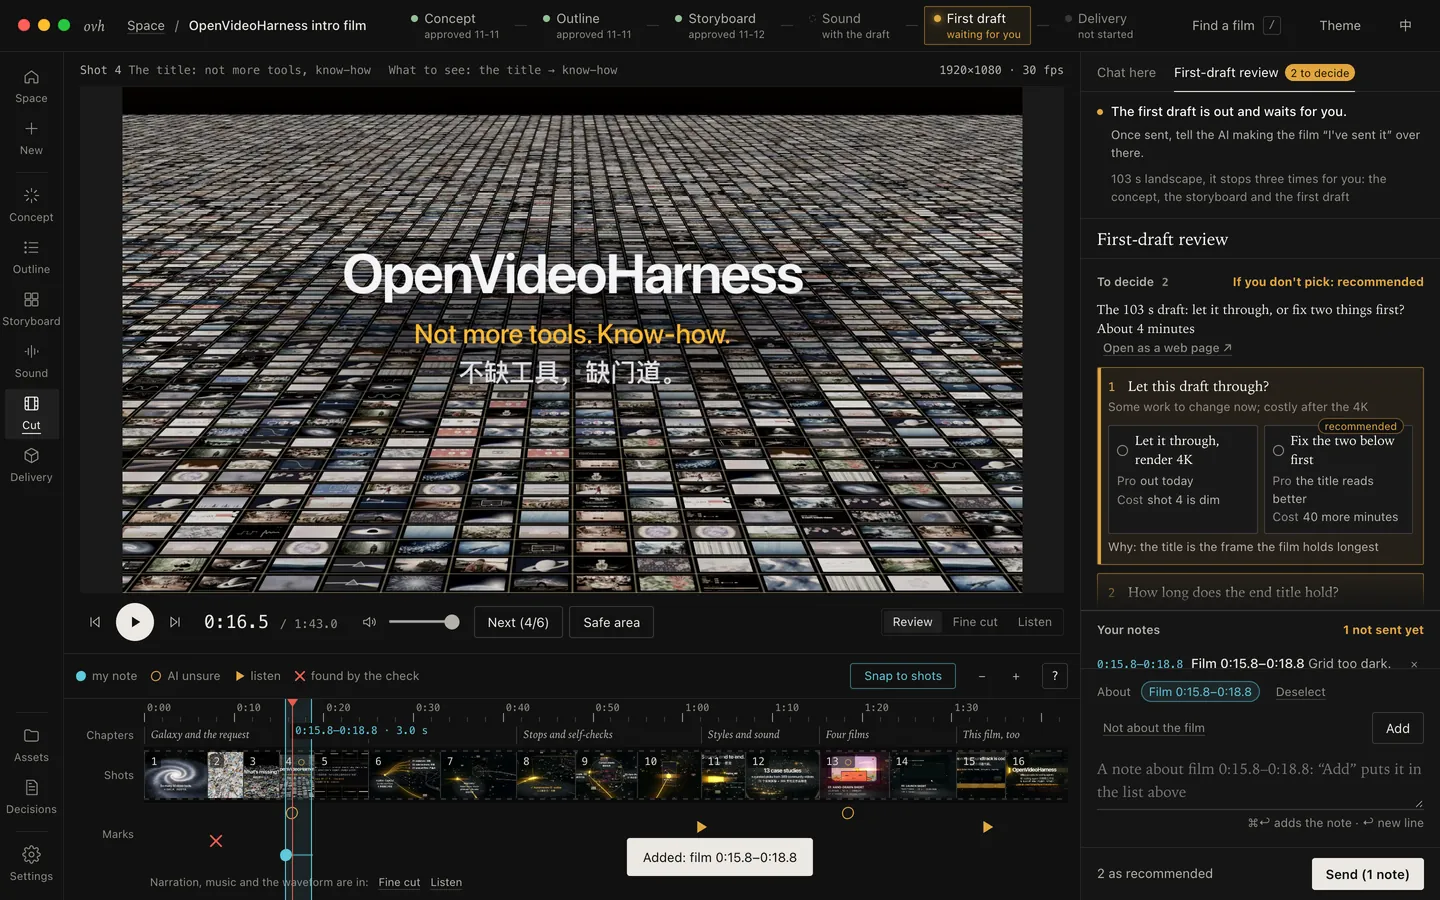
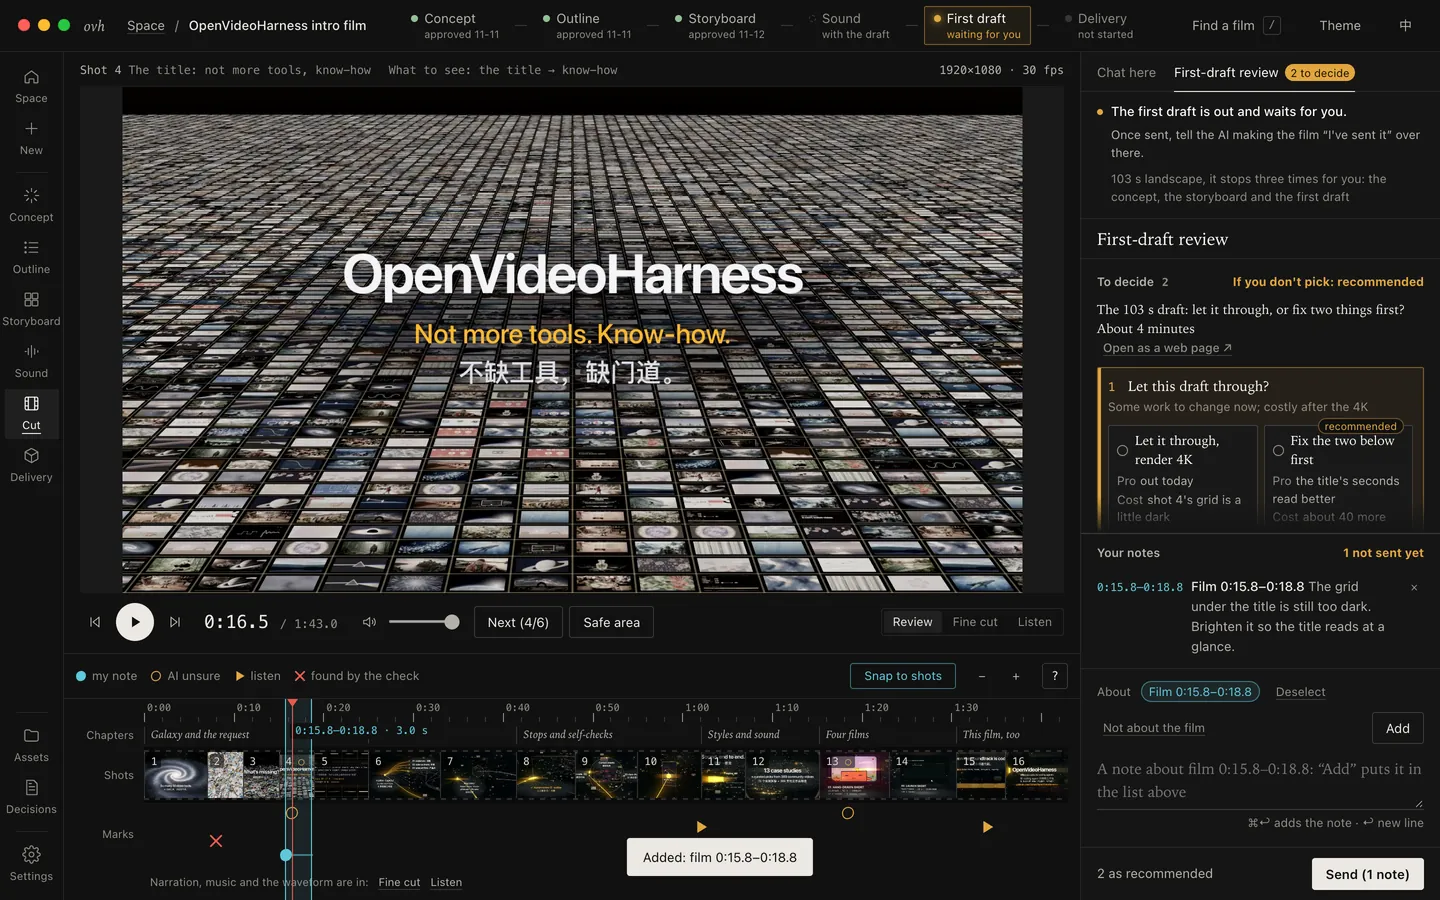
Studio 右栏：刚加的意见整条看得见，长的镜头名不再把右栏撑宽
- "你的意见"至少放得下状态那一行和最后三条（fitMine 按实际高度给最小高度），上面要定的事让到 4.5rem、自己滚动。
- 右栏里的标签写不下以省略号结尾、title 里是全文，网格列和块标题不再被内容撑宽，发送按钮总在右栏里；三套主题都一样。
- test_page.py 加两项检查；主图、初版写意见和三张英文主题图跟着重拍，样例文字换回原来的长句。

Changed region(s): [[0.75, 0.5289, 1.0, 0.7467], [0.8125, 0.5289, 0.8438, 0.56]]

diff --git a/tools/desk/static/studio.css b/tools/desk/static/studio.css
@@ -198,7 +198,7 @@ html.shell-other .topbar{padding-right:calc(14px + 100vw - env(titlebar-area-x, 
 .col-now .now-act .now-second{padding-left:0;color:var(--ink-3);text-decoration:underline;text-decoration-color:var(--rule-2);text-underline-offset:2px}
 .col-now .now-plan{margin:0;padding-left:14px;font-size:var(--fs-label);color:var(--ink-3)}
 .col-body{flex:1;overflow:auto;padding:14px 16px;display:grid;gap:16px;align-content:start}
-.col-body .blk-h{display:flex;align-items:baseline;gap:8px;margin:0 0 8px;font-size:var(--fs-label);color:var(--ink-3);letter-spacing:var(--label-track);text-transform:var(--label-case)}
+.col-body .blk-h{display:flex;flex-wrap:wrap;align-items:baseline;gap:2px 8px;margin:0 0 8px;font-size:var(--fs-label);color:var(--ink-3);letter-spacing:var(--label-track);text-transform:var(--label-case)}
 .col-body .blk-h b{font-weight:600;color:var(--ink-2)}
 .col-body .blk-h .tag{margin-left:auto}
 .col-body .round-h{font:500 var(--fs-small)/1.5 var(--prose);color:var(--ink)}
@@ -214,8 +214,8 @@ html.shell-other .topbar{padding-right:calc(14px + 100vw - env(titlebar-area-x, 
 .col-body .quiet-line{color:var(--ink-2)}
 /* the notes and their state, pinned to the column's foot right above the note box: what was just kept is seen without scrolling */
 .col-body.split{display:flex;flex-direction:column;overflow:hidden;padding:0;gap:0}   /* a film's column: two parts, each scrolling on its own */
-.col-body.split>.col-scroll{flex:1 1 auto;min-height:6rem;overflow:auto;padding:14px 16px 10px;display:grid;gap:10px;align-content:start}
-.col-body.split>.c-mine{flex:0 1 auto;min-height:0;max-height:50%;overflow:auto;padding:10px 16px 12px;background:var(--panel);border-top:1px solid var(--rule-2)}   /* at most half the column; below 1280×720 the part above keeps 6rem */
+.col-body.split>.col-scroll{flex:1 1 auto;min-height:4.5rem;overflow:auto;padding:14px 16px 10px;display:grid;grid-template-columns:minmax(0,1fr);gap:10px;align-content:start}
+.col-body.split>.c-mine{flex:0 1 auto;min-height:0;max-height:50%;overflow:auto;padding:10px 16px 12px;background:var(--panel);border-top:1px solid var(--rule-2)}   /* at most half the column, unless its state line and last three notes need more (fitMine sets a min-height then); the part above keeps 4.5rem and scrolls */
 .col-body .c-mine .blk-h{position:sticky;top:-10px;margin:-10px 0 4px;padding:10px 0 4px;background:linear-gradient(var(--panel),var(--panel)),var(--bg);z-index:1}   /* opaque where the panel is see-through (棱镜): a scrolled note never shows through it */   /* the state line stays while the notes scroll */
 .col-body .c-mine .blk-h .tag{margin-left:auto;color:var(--wait)}
 .col-body .ho-batch{margin-top:8px}
@@ -243,7 +243,13 @@ html.shell-other .topbar{padding-right:calc(14px + 100vw - env(titlebar-area-x, 
 .col-round b{color:var(--ink);font-weight:500}
 .col-round .btn-primary{margin-left:auto}
 .col-round .btn-primary[disabled]{opacity:.4;cursor:default}
-.composer{padding:12px 16px 14px;border-top:1px solid var(--rule);display:grid;gap:8px}
+.composer{padding:12px 16px 14px;border-top:1px solid var(--rule);display:grid;grid-template-columns:minmax(0,1fr);gap:8px}
+/* nothing in the right column is wider than the column, in any theme: a chip ends in "…" with its whole text in its title (prism and bridge set chips
+   in the monospace, about a quarter wider than darkfield's sans, so a long label crossed the edge there first), a button's words wrap */
+.col .chip{max-width:100%;min-width:0}
+.col .crow>.chip,.col .ag-me>.chip,.col .note-list .chip{display:inline-block;overflow:hidden;text-overflow:ellipsis;vertical-align:middle}
+.col .crow>*,.col .send>*{min-width:0}
+.col .send .btn,.col .crow .btn{white-space:normal;overflow-wrap:anywhere;text-align:center}
 .composer .crow{display:flex;align-items:center;gap:8px;flex-wrap:wrap;font-size:var(--fs-label);color:var(--ink-3)}
 .composer .crow .xs{border:0;background:none;color:var(--ink-3);cursor:pointer;font-size:var(--fs-label);text-decoration:underline;text-decoration-color:var(--rule-2);text-underline-offset:3px}
 .composer .modes{display:inline-flex;border:1px solid var(--rule);border-radius:var(--r-ctl);overflow:hidden}

diff --git a/tools/desk/static/studio.js b/tools/desk/static/studio.js
@@ -691,7 +691,21 @@ function renderMine() {
     + (none ? "" : `<ul class="note-list mine">${gen}${items.map(row).join("")}</ul>`) + leftHtml + unreadHtml + takenHtml;
   requestAnimationFrame(keepNewest);
 }
+function fitMine() {   // the block holds its state line and the last three notes whole (all of them when fewer); the decisions above give way down to their own minimum and scroll
+  const box = $("#cMine"), body = $("#colBody"), above = $("#colScroll");
+  if (!box || !body || !above || !body.classList.contains("split")) return;
+  box.style.minHeight = "";
+  const lis = $$("ul.mine > li", box).slice(-3), head = $(".blk-h", box);
+  if (!lis.length || !box.offsetParent) return;
+  const cs = getComputedStyle(box), first = lis[0].getBoundingClientRect(), last = lis[lis.length - 1].getBoundingClientRect();
+  const hs = head ? getComputedStyle(head) : null, stuck = hs ? head.getBoundingClientRect().height + Math.min(0, parseFloat(hs.top) || 0) + (parseFloat(hs.marginBottom) || 0) : 0;
+  const edge = parseFloat(cs.borderTopWidth) + parseFloat(cs.borderBottomWidth);
+  const need = Math.ceil(Math.min(stuck + 4 + (last.bottom - first.top) + parseFloat(cs.paddingBottom), box.scrollHeight) + edge);   // the state line as it sticks, the three, the foot
+  const room = body.clientHeight - (parseFloat(getComputedStyle(above).minHeight) || 0);
+  if (need > box.clientHeight + 1) box.style.minHeight = Math.max(0, Math.min(need, room)) + "px";
+}
 function keepNewest() {   // the note kept last is the one in view, however many there are (also once the column's tab shows the block)
+  fitMine();
   const box = $("#cMine"), keys = FB ? Object.keys(FB.items) : [];
   const newest = box && keys.length ? $(`li[data-goto="${CSS.escape(keys[keys.length - 1])}"]`, box) : null;
   if (newest && box.scrollHeight > box.clientHeight) box.scrollTop = Math.max(0, newest.offsetTop - box.clientHeight + newest.offsetHeight + 8);
@@ -815,7 +829,7 @@ function scopeLabel() { return SCOPE ? SCOPE.label : MOD === "cut" ? t("whole_fi
 function updateComposer() {
   if (!$("#composer").dataset.ready) return;
   const x = scopeLabel();
-  $("#scope").textContent = x; $("#scope").className = "chip" + (SCOPE ? "" : " quiet");
+  $("#scope").textContent = x; $("#scope").title = x; $("#scope").className = "chip" + (SCOPE ? "" : " quiet");
   $("#toWhole").hidden = !SCOPE;
   $("#toNone").hidden = !!(SCOPE && SCOPE.none);
   $("#say").placeholder = SCOPE && SCOPE.none ? t("ph_not_film") : t("c_ph", { x: /[\x21-\x7e]$/.test(x) && LANG === "zh" ? x + " " : inLine(x) });

diff --git a/tools/desk/static/agent.js b/tools/desk/static/agent.js
@@ -569,7 +569,7 @@ const AGENT = (() => {
   }
   function itemHtml(it) {
     const a = esc(label());
-    if (it.kind === "user") return `<div class="ag-me">${it.scope && it.scope.label ? `<span class="chip">${esc(at("t_on", { x: inLine(cut(it.scope.label, 40)) }))}</span>` : ""}<p>${esc(it.text)}</p></div>`;
+    if (it.kind === "user") return `<div class="ag-me">${it.scope && it.scope.label ? `<span class="chip" title="${esc(at("t_on", { x: inLine(it.scope.label) }))}">${esc(at("t_on", { x: inLine(cut(it.scope.label, 40)) }))}</span>` : ""}<p>${esc(it.text)}</p></div>`;
     if (it.kind === "msg" && AUTH_MSG.test(it.text)) return `${HINTS.has(it.key) ? signInHint("warn") : ""}<details class="ag-thought"><summary>${esc(at("raw_said"))}</summary><div class="ag-md">${md(it.text)}</div></details>`;
     if (it.kind === "msg") return `<div class="ag-say"><div class="ag-who"><i></i>${a}</div><div class="ag-md">${md(it.text)}</div></div>`;
     if (it.kind === "thought") return it.text.trim() ? `<details class="ag-thought"><summary>${esc(at("thought"))}</summary><div class="ag-md">${md(it.text)}</div></details>` : "";
@@ -798,7 +798,7 @@ const AGENT = (() => {
       });
     }
     const sp = KEYP === SPACE, first = sp && !(S && S.items.length);   // the space: nothing selected to be on
-    $("#agScope").textContent = sp ? "" : x; $("#agScope").className = "chip" + (sc ? "" : " quiet"); $("#agScope").hidden = sp; $("#agAt").hidden = sp;
+    $("#agScope").textContent = sp ? "" : x; $("#agScope").title = sp ? "" : x; $("#agScope").className = "chip" + (sc ? "" : " quiet"); $("#agScope").hidden = sp; $("#agAt").hidden = sp;
     $("#agSay").placeholder = first ? at("sp_ph") : sc ? at("ph_say", { x: inLine(sc.label) }) : at("ph_say0", { a: label() });
     $("#agSay").disabled = !meta(KIND).installed || !KEYOK;
     $("#agStop").hidden = !running; $("#agStop").disabled = !!(S && S.stopping);

diff --git a/tools/desk/static/agent.css b/tools/desk/static/agent.css
@@ -59,7 +59,7 @@
 /* the conversation */
 .ag-thread{flex:1;min-height:0;overflow:auto;padding:14px 16px;display:flex;flex-direction:column;gap:12px}
 .ag-item{display:contents}
-.ag-me{align-self:flex-end;max-width:92%;display:flex;flex-direction:column;align-items:flex-end;gap:4px}
+.ag-me{align-self:flex-end;max-width:92%;min-width:0;display:flex;flex-direction:column;align-items:flex-end;gap:4px}
 .ag-me p{margin:0;padding:7px 11px;background:var(--you-soft);border:1px solid var(--you-line);border-radius:var(--r-card);font-size:var(--fs-small);line-height:1.6;color:var(--ink);white-space:pre-wrap;overflow-wrap:anywhere}
 .ag-who{display:flex;align-items:center;gap:6px;font-size:var(--fs-label);font-weight:600;color:var(--agent);margin-bottom:3px}
 .ag-who i{width:6px;height:6px;border-radius:50%;background:var(--agent)}
@@ -144,7 +144,7 @@
 .ag-check{display:flex;gap:8px;align-items:flex-start;font-size:var(--fs-small);color:var(--ink-2)}
 
 /* the box */
-.ag-foot{padding:10px 16px 14px;border-top:1px solid var(--rule);display:grid;gap:8px}
+.ag-foot{padding:10px 16px 14px;border-top:1px solid var(--rule);display:grid;grid-template-columns:minmax(0,1fr);gap:8px}
 .ag-foot .crow{display:flex;align-items:center;gap:8px;flex-wrap:wrap;font-size:var(--fs-label);color:var(--ink-3)}
 .ag-foot .crow .btn-primary{margin-left:auto}
 .ag-foot .crow #agStop{margin-left:auto}

diff --git a/tools/desk/test_page.py b/tools/desk/test_page.py
@@ -127,6 +127,18 @@ tail = rest[rest.index("\n## ", 1):] if "\n## " in rest[1:] else ""
 (nine / "BRIEF.md").write_text(top + "## Outline\n\n" + outline(NINE) + tail, encoding="utf-8")
 five = top + "## Outline\n\n" + outline(FIVE) + tail
 stamp = film("stamp", E1)   # the stamp is taken before the read: a file written during the read leaves the page one reload behind
+four = film("four", dict(E1, least_sure=[{"id": f"c0{i}", "note": f"第 {i} 句会不会太书面，念出来像在读稿"} for i in range(1, 5)]))   # two open decisions, four notes, one long
+LONG_NOTE = "这一句太长了，" + "念到一半就要换气，观众会跟不上画面上的字，最好拆成两句，前一句只说月亮，后一句再说太阳，" * 3
+wide = T / "root" / "wide"   # the cut with a 60-character English shot label selected
+shutil.copytree(ROOT / "tools" / "desk" / "fixtures" / "demo", wide)
+WIDE_LABEL = "Every scene is f(t), checked scene by scene against its plan"[:60]
+_shots = json.loads((wide / "shots.json").read_text(encoding="utf-8"))
+_shots["shots"][2]["label"] = WIDE_LABEL
+(wide / "shots.json").write_text(json.dumps(_shots, ensure_ascii=False), encoding="utf-8")
+WIDE_SHOT = _shots["shots"][2]["id"]
+sys.path.insert(0, str(HERE / "fixtures" / "agents"))
+import stage as agent_stage   # noqa: E402   (the stand-in agents, so the column's conversation tab has its note box)
+agent_stage.stage(ENV["OVH_AGENTS_DIR"])
 
 
 def stamp_before_read():   # (no browser: the server's own function, a write injected into its read)
@@ -214,6 +226,37 @@ try:
     for size in ((1280, 720), (1440, 900)):
         steps += [{"viewport": list(size)}, {"eval": VIEW, "name": f"busy_view {size[0]}x{size[1]} en"}]
     steps += [{"click": "#lang", "after": 1500}]
+    # two open decisions and four notes, one of them long: the state line and three notes inside the column, the long one readable
+    FOUR = ("JSON.stringify((() => { const m = $('#cMine'), b = $('#colBody'), M = m.getBoundingClientRect(), B = b.getBoundingClientRect(), "
+            "lo = Math.max(M.top, B.top), hi = Math.min(M.bottom, B.bottom), inside = (r) => r.top >= lo - 1 && r.bottom <= hi + 1, h = $('#cMine .blk-h').getBoundingClientRect(), "
+            "lis = [...m.querySelectorAll('ul.mine li')], long = lis.find((e) => e.innerText.length > 100); "
+            "return { head: inside(h), shown: lis.filter((e) => inside(e.getBoundingClientRect())).length, n: lis.length, block: [M.top, M.bottom], body: [B.top, B.bottom], "
+            "scrolls: m.scrollHeight > m.clientHeight + 1 && getComputedStyle(m).overflowY !== 'hidden', long_clipped: !!long && long.scrollHeight > long.clientHeight + 1 }; })())")
+    def drawn(f, ms=12000):   # (as opened() below: the film read and drawn, nothing reloading)
+        return {"until": f"typeof D !== 'undefined' && D && PKEY === {key(f)!r} && !RELOADING && !!$('#stage [data-mod]')", "name": f"open {f.name}", "ms": ms}
+    steps += [{"go": f"#/p/{key(four)}/outline/script", "after": 200}, drawn(four), tab,
+              {"eval": "(" + ", ".join(KEEP.format(t=f"cap:c0{i}", x=(LONG_NOTE if i == 1 else f"第 {i} 句再口语一点，念出来像在跟人说话，不像在读稿"), lb=f"字幕 c0{i}") for i in range(1, 5)) + ")", "name": "four_keep"},
+              {"until": "document.querySelectorAll('#cMine ul.mine li').length === 4", "name": "four_kept", "ms": 8000}]
+    for size in ((1440, 900), (1280, 720)):
+        steps += [{"viewport": list(size), "after": 200}, {"until": f"innerWidth === {size[0]} && innerHeight === {size[1]}", "name": "four_size", "ms": 5000},
+                  {"eval": FOUR, "name": f"four_view {size[0]}x{size[1]}"}]
+    steps += [{"viewport": [1440, 900], "after": 200}]
+    # a 60-character English shot label selected on the cut, in each theme, in the notes tab and the conversation tab: nothing wider than the column
+    WIDE = ("JSON.stringify((() => { const col = $('#colBody').closest('aside') || $('#colBody').parentElement, c = col.getBoundingClientRect(), out = []; "
+            "for (const e of col.querySelectorAll('*')) { const r = e.getBoundingClientRect(); if (r.width && r.height && (r.right > c.right + 1 || r.left < c.left - 1)) out.push((e.id || e.className || e.tagName) + ''); } "
+            "const s = [...col.querySelectorAll('button')].filter((x) => x.offsetParent && /^(Send|发送|发出去)/.test(x.innerText.trim())).map((x) => { const r = x.getBoundingClientRect(); "
+            "return { text: x.innerText.trim(), inside: r.left >= c.left - 1 && r.right <= c.right + 1 && r.width > 0 }; }); "
+            "return { col: [c.left, c.right], wide: out.slice(0, 8), n: out.length, send: s, scope: (($('#scope') || {}).title || '') + '|' + (($('#agScope') || {}).title || '') }; })())")
+    steps += [{"go": f"#/p/{key(wide)}/cut", "after": 200}, drawn(wide), {"click": "#lang", "after": 200},
+              {"until": "document.documentElement.lang === 'en' && !!$('#tl [data-pick=\"shot:" + WIDE_SHOT + "\"]')", "name": "wide_en", "ms": 8000},
+              {"click": f"#tl [data-pick=\"shot:{WIDE_SHOT}\"]"}, {"until": "/" + WIDE_LABEL[:20] + "/.test(($('#scope') || {}).textContent || '')", "name": "wide_picked", "ms": 8000}]
+    for theme in ("darkfield", "prism", "bridge"):
+        steps += [{"eval": f"(document.documentElement.dataset.theme = {theme!r}, true)", "name": "theme"},
+                  {"click": "#colTabs [data-tab=round]"}, {"until": "$('#colTabs [data-tab=round][aria-selected=true]') && $('#scope') && $('#scope').offsetParent", "name": "wide_round", "ms": 8000},
+                  {"eval": WIDE, "name": f"wide_view {theme} notes"},
+                  {"click": "#colTabs [data-tab=chat]"}, {"until": "$('#colTabs [data-tab=chat][aria-selected=true]') && $('#agScope') && $('#agScope').offsetParent", "name": "wide_chat", "ms": 8000},
+                  {"eval": WIDE, "name": f"wide_view {theme} chat"}]
+    steps += [{"eval": "(document.documentElement.dataset.theme = 'darkfield', true)", "name": "theme"}, {"click": "#lang", "after": 1500}]
     WHERE = "JSON.stringify({ mod: ($('#stage [data-mod]') || {}).dataset && $('#stage [data-mod]').dataset.mod, hash: decodeURIComponent(location.hash), " \
             "tab: (($('nav.subtabs [aria-selected=true]') || { getAttribute: () => '' }).getAttribute('href')) || '', cards: !!$('.c-cards') })"
 
@@ -409,4 +452,13 @@ ok = ((res.get("nine_reloaded") or {}).get("ok")
 check("an outline of nine parts rewritten to five (one removed in the middle, two in another order, one renamed, one's words rewritten): a note on the "
       "same part stays; one whose part moved goes with it, takes its number and time, and says once where it was; one whose part was renamed or rewritten is never drawn on what took its place, "
       "quotes what it was written on, goes nowhere on a click, and is sent saying so; one on a removed part says it is gone", ok, na)
+fv = {k: js(k) for k in res if k and k.startswith("four_view")}
+ok = len(fv) == 2 and all(x.get("head") and x.get("n") == 4 and x.get("shown", 0) >= 3 and not x.get("long_clipped")
+                          and (x.get("shown") == 4 or x.get("scrolls")) for x in fv.values())
+check("two open decisions and four notes kept, one of them long, at 1440 x 900 and 1280 x 720: the notes' state line and at least three notes are inside "
+      "the column, the decisions above give way; the long note is never cut inside its line, and what does not fit scrolls in the block", ok, fv)
+wv = {k: js(k) for k in res if k and k.startswith("wide_view")}
+ok = len(wv) == 6 and all(x.get("n") == 0 and x.get("send") and all(s.get("inside") for s in x["send"]) and WIDE_LABEL in x.get("scope", "") for x in wv.values())
+check("a 60-character English shot label selected on the cut, in the three themes, the notes tab and the conversation tab: nothing in the right column is "
+      "wider than the column, the label ends short with its whole text in the title, and the Send button is whole inside it", ok, wv)
 print("end", flush=True)

diff --git a/changes/studio-column-fits.md b/changes/studio-column-fits.md
@@ -1,0 +1,6 @@
+**Studio 右栏：刚加的意见整条看得见，长的镜头名不再把右栏撑宽**
+- Why: 重拍 README 截图时看到两处：1440×900、1280×720 下右栏有两件待定的事时，"你的意见"被挤到一两行高，刚加的那条只露半截；英文里一个长的镜头名选中以后，"关于"那一格把右栏撑出去，"发送"按钮被切掉一半，三套主题都会，棱镜和舰桥的标签用等宽字，所以先出界。
+- "你的意见"至少放得下状态那一行和最后三条意见（不到三条就全放下），上面要定的事让出位置、自己滚动，最少留 4.5rem；一条很长的意见在格子里滚着读，不会半行截断。1280×720 下这一格从约 148 像素高、露两条，变成约 198 像素、露三条。
+- 右栏里任何东西都不比右栏宽：选中的那一处、对话里"关于"的标签写不下就以"…"结尾，鼠标停上去看全文；块标题、按钮的字换行；"发送"按钮总是整个在右栏里。
+- `tools/desk/test_page.py` 加了两项检查：两件待定的事和四条意见（一条很长）在 1440×900 和 1280×720 下；60 个字符的英文镜头名在三套主题的两个页签里。
+- README 和官网的 Studio 截图里，主图、初版写意见和三张英文主题图跟着重拍，样例意见和选项换回原来的长句。
